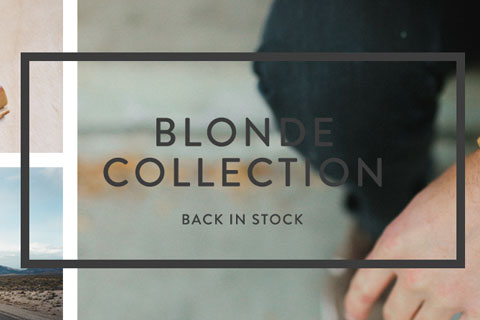
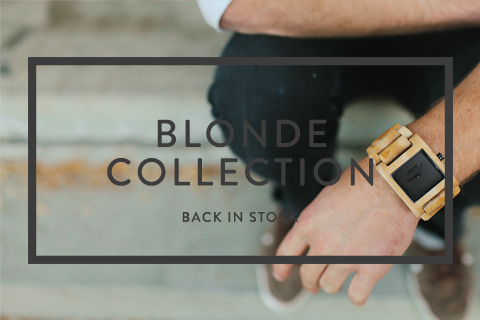
updated mobile images and fixed links

diff --git a/db/seeds.rb b/db/seeds.rb
@@ -57,7 +57,7 @@ products = [
   	:title => "The Plank Maple White SolidCore Wood Watch | Men's Watches",
     :description => "The Plank Wooden Watch, Blonde SolidCore Wood, White Carbon Mesh Dial, 3 Hand Japan Movement, Black Stainless Steel Clasp, 44mm, $185 USD Buy Now",  
   	:category => "Watches", 
-  	:shoplink => "https://mica.infusionsoft.com/app/manageCart/addProduct?productId=117", 
+  	:shoplink => "https://mica.infusionsoft.com/app/manageCart/addProduct?productId=191", 
   	:price => "185", 
   	:image1 => "/assets/products/watches/maple/plank-white/plank-maple-white-wooden-watch-crown.jpg", 
   	:image2 => "/assets/products/watches/maple/plank-white/plank-blonde-white-wooden-watch-crown-profile.jpg", 
@@ -165,7 +165,7 @@ products = [
     :image1 => "/assets/products/watches/sable/drift-black/drift-sable-black-wooden-watch-crown.jpg", 
     :image2 => "/assets/products/watches/sable/drift-black/drift-sable-black-profile.jpg", 
     :image3 => "/assets/products/watches/sable/drift-black/drift-sable-black-belly.jpg",
-    :url => "the-drift-sable-black-wood-watch-40mm",
+    :url => "the-drift-sable-black-wood-watch-37mm",
     :sizing => "Standard Size (37.5mm)" 
   },
 
@@ -180,7 +180,7 @@ products = [
     :image1 => "/assets/products/watches/sable/drift-gold/drift-sable-gold-wooden-watch-crown.jpg", 
     :image2 => "/assets/products/watches/sable/drift-gold/drift-sable-gold-profile.jpg", 
     :image3 => "/assets/products/watches/sable/drift-gold/drift-sable-gold-belly.jpg",
-    :url => "the-drift-sable-gold-wood-watch-40mm",
+    :url => "the-drift-sable-gold-wood-watch-37mm",
     :sizing => "Standard Size (37.5mm)" 
   },
 
@@ -191,12 +191,12 @@ products = [
     :title => "The Drift Blonde Black SolidCore Wood Watch | Men's Watches",
     :description => "The Drift Wooden Watch, Blonde SolidCore Wood, Black Steel Dial, 3 Hand Japan Movement, Black Stainless Steel Clasp, 37.5mm, $155 USD Buy Now", 
     :category => "Watches", 
-    :shoplink => "https://mica.infusionsoft.com/app/manageCart/addProduct?productId=129", 
+    :shoplink => "https://mica.infusionsoft.com/app/manageCart/addProduct?productId=175", 
     :price => "155", 
     :image1 => "/assets/products/watches/maple/drift-black/drift-maple-black-wooden-watch-crown.jpg", 
     :image2 => "/assets/products/watches/maple/drift-black/drift-maple-black-profile.jpg", 
     :image3 => "/assets/products/watches/maple/drift-black/drift-maple-black-belly.jpg",
-    :url => "the-drift-blonde-black-wood-watch",
+    :url => "the-drift-blonde-black-wood-watch-37mm",
     :sizing => "Standard Size (37.5mm)" 
   },
 
@@ -211,7 +211,7 @@ products = [
     :image1 => "/assets/products/watches/maple/drift-silver/drift-maple-silver-wooden-watch-crown.jpg", 
     :image2 => "/assets/products/watches/maple/drift-silver/drift-maple-silver-profile.jpg", 
     :image3 => "/assets/products/watches/maple/drift-silver/drift-maple-silver-belly.jpg",
-    :url => "the-drift-blonde-silver-wood-watch",
+    :url => "the-drift-blonde-silver-wood-watch-37mm",
     :sizing => "Standard Size (37.5mm)" 
   },
 
@@ -301,7 +301,7 @@ products = [
     :image1 => "/assets/products/watches/maple/baron-rosegold/baron-blonde-rose-gold-mica-wood-watch.jpg", 
     :image2 => "/assets/products/watches/maple/baron-rosegold/baron-maple-rosegold-profile.jpg", 
     :image3 => "/assets/products/watches/maple/baron-rosegold/baron-maple-rosegold-belly.jpg",
-    :url => "the-baron-blonde-rosegold-wood-watch-38mm",
+    :url => "the-baron-blonde-rose-gold-wood-watch-38mm",
     :sizing => "Standard Size (38mm)" 
   },
 
@@ -323,8 +323,8 @@ products = [
   { :name => "The Tree", 
     :collection => "Tees",
     :color => "White", 
-    :title => "",
-    :description => "", 
+    :title => "The Tree Tee by Mica",
+    :description => "The Tree Tee by Mica", 
     :category => "Clothing", 
     :shoplink => "", 
     :price => "25", 
@@ -337,8 +337,8 @@ products = [
   { :name => "The Official", 
     :collection => "Tees",
     :color => "Navy", 
-    :title => "",
-    :description => "", 
+    :title => "The Official Tee by Mica",
+    :description => "The Official Tee by Mica", 
     :category => "Clothing", 
     :shoplink => "", 
     :price => "25", 
@@ -351,8 +351,8 @@ products = [
   { :name => "The Blitzen", 
     :collection => "Tees",
     :color => "Gray", 
-    :title => "",
-    :description => "", 
+    :title => "The Blitzen Tee by Mica",
+    :description => "The Blitzen Tee by Mica", 
     :category => "Clothing", 
     :shoplink => "", 
     :price => "25", 
@@ -365,8 +365,8 @@ products = [
   { :name => "The Albuquerque", 
     :collection => "Tees",
     :color => "Black", 
-    :title => "",
-    :description => "", 
+    :title => "The Albuquerque Tee by Mica",
+    :description => "The Albuquerque Tee by Mica", 
     :category => "Clothing", 
     :shoplink => "", 
     :price => "25", 
